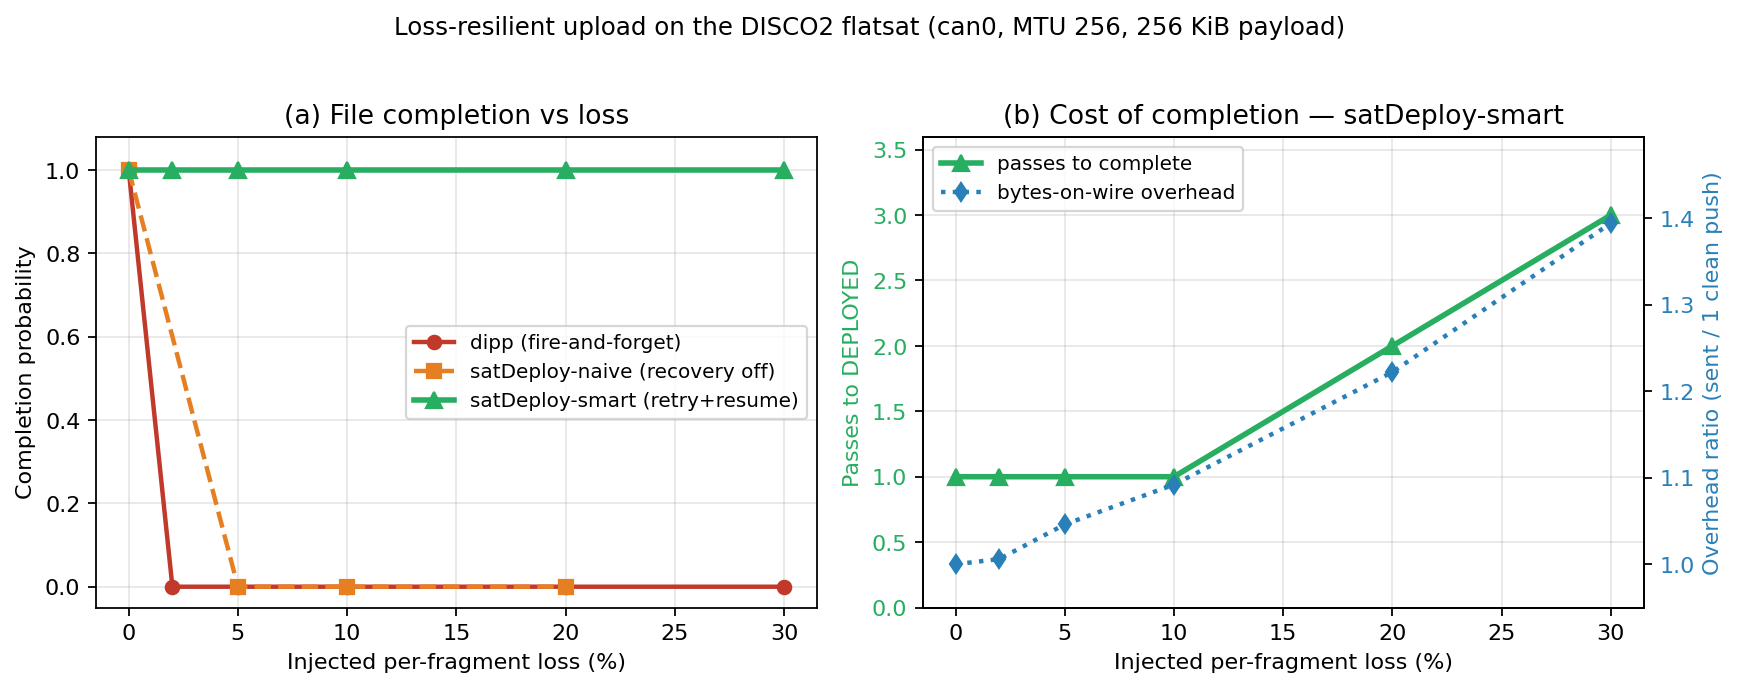
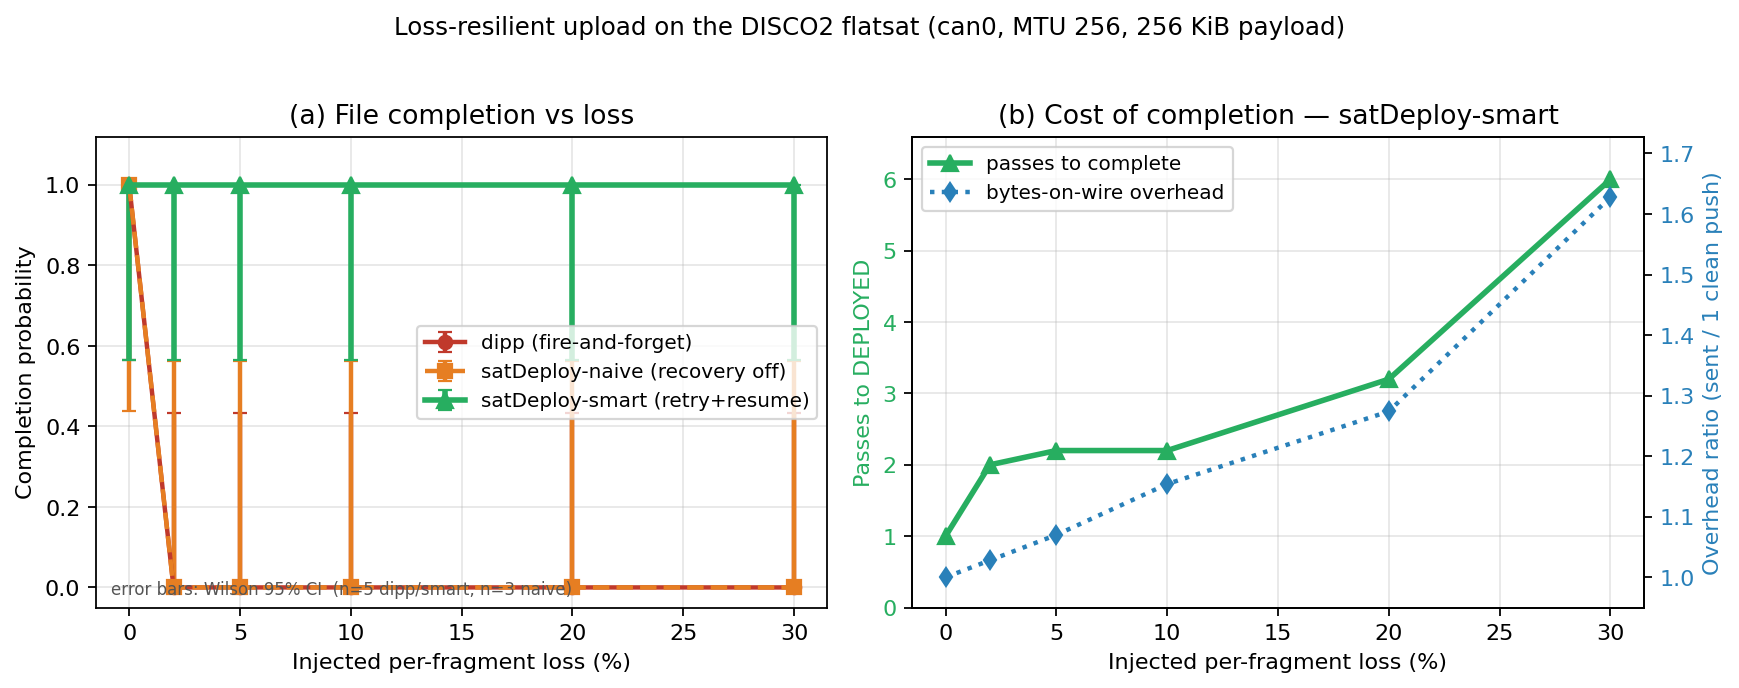
feat(figures): Wilson CIs on the headline plot + calibration figure
plot_headline now reads from captures/ and renders Wilson 95% CIs on the
completion panel (honest k/n with n=5 dipp/smart, n=3 naive). Adds
plot_calibration.py + the calibration figure, and refreshes the headline
figure and satdeploy_sweep.csv from the paced re-run.

diff --git a/scripts/plot_calibration.py b/scripts/plot_calibration.py
@@ -1,0 +1,163 @@
+#!/usr/bin/env python3
+"""Calibration + oracle-agreement figure (RQ1 + RQ5).
+
+Two panels, both built from the live can0 sweep CSVs (no bus needed):
+
+  (a) injected vs measured per-fragment loss, all three arms. Measured loss is
+      the injector drop-log (oracle A): dipp = dropped/sent; satDeploy =
+      total_dropped/total_injected (per-attempt loss summed over passes). The
+      y=x line is perfect calibration; we annotate the worst-case
+      |mean_measured - injected| against the +/-0.02 success-criterion bound.
+
+  (b) oracle agreement (dipp arm): injector kept-count (oracle A) vs
+      promiscuous-monitor observed-count (oracle B), per run, on y=x. Agreement
+      is the differential-testing signal (RQ5); disagreement would flag a bug.
+      Annotates max(dropped&observed), which must be ~0 (a dropped fragment must
+      never be seen on the wire).
+
+Output: figures/calibration.{png,pdf}
+"""
+import csv
+import os
+import statistics
+from collections import defaultdict
+
+import matplotlib
+
+matplotlib.use("Agg")
+import matplotlib.pyplot as plt
+
+HERE = os.path.dirname(os.path.abspath(__file__))
+ROOT = os.path.dirname(HERE)
+CAP = os.path.join(ROOT, "captures")
+FIGDIR = os.path.join(ROOT, "figures")
+
+
+def load_measured_dipp():
+    """injected -> [measured loss per seed], from oracle A (dropped/sent)."""
+    byloss = defaultdict(list)
+    path = os.path.join(CAP, "dipp_sweep.csv")
+    if not os.path.exists(path):
+        return byloss
+    with open(path) as f:
+        for r in csv.DictReader(f):
+            if r["status"] != "ok" or not r["sent"]:
+                continue
+            sent = int(r["sent"])
+            if sent == 0:
+                continue
+            byloss[float(r["loss"])].append(int(r["dropped"]) / sent)
+    return byloss
+
+
+def load_measured_satdeploy():
+    """arm -> injected -> [measured loss], from total_dropped/total_injected."""
+    out = {"smart": defaultdict(list), "naive": defaultdict(list)}
+    path = os.path.join(CAP, "satdeploy_sweep.csv")
+    if not os.path.exists(path):
+        return out
+    with open(path) as f:
+        for r in csv.DictReader(f):
+            if r["status"] != "ok":
+                continue
+            inj = int(r["total_injected"])
+            if inj == 0:
+                continue
+            out[r["arm"]][float(r["loss"])].append(int(r["total_dropped"]) / inj)
+    return out
+
+
+def load_oracle_agreement():
+    """dipp: list of (kept_A, observed_B, drop_obs) per run."""
+    rows = []
+    path = os.path.join(CAP, "dipp_sweep.csv")
+    if not os.path.exists(path):
+        return rows
+    with open(path) as f:
+        for r in csv.DictReader(f):
+            if r["status"] != "ok" or not r.get("observedB"):
+                continue
+            try:
+                rows.append((int(r["kept"]), int(r["observedB"]), int(r["drop_obs"])))
+            except (ValueError, KeyError):
+                continue
+    return rows
+
+
+def meanstd(d):
+    xs = sorted(d)
+    means = [statistics.mean(d[x]) for x in xs]
+    sds = [statistics.pstdev(d[x]) if len(d[x]) > 1 else 0.0 for x in xs]
+    return [x * 100 for x in xs], [m * 100 for m in means], [s * 100 for s in sds]
+
+
+def main():
+    os.makedirs(FIGDIR, exist_ok=True)
+    dipp = load_measured_dipp()
+    sat = load_measured_satdeploy()
+    agree = load_oracle_agreement()
+
+    fig, (ax1, ax2) = plt.subplots(1, 2, figsize=(11, 4.2))
+
+    # Panel (a): injected vs measured loss, all arms, with y=x.
+    lim = 32
+    ax1.plot([0, lim], [0, lim], "k--", lw=1, alpha=0.6, label="y = x (perfect)")
+    worst = 0.0
+    for d, color, marker, lab in (
+        (dipp, "#c0392b", "o", "dipp"),
+        (sat["naive"], "#e67e22", "s", "satDeploy-naive"),
+        (sat["smart"], "#27ae60", "^", "satDeploy-smart"),
+    ):
+        if not d:
+            continue
+        x, m, s = meanstd(d)
+        ax1.errorbar(x, m, yerr=s, fmt=marker + "-", color=color, lw=1.8, ms=6,
+                     capsize=3, label=lab)
+        worst = max(worst, max(abs(mi - xi) for xi, mi in zip(x, m)))
+    ax1.set_xlabel("Injected per-fragment loss (%)")
+    ax1.set_ylabel("Measured loss — oracle A (%)")
+    ax1.set_xlim(-1, lim)
+    ax1.set_ylim(-1, lim)
+    ax1.set_aspect("equal", adjustable="box")
+    ax1.set_title("(a) Injector calibration: injected vs measured")
+    ax1.grid(True, alpha=0.3)
+    ax1.legend(loc="upper left", fontsize=8)
+    ax1.text(0.97, 0.03,
+             f"worst |meas-inj| = {worst:.2f} pp\nbound: <2 pp",
+             transform=ax1.transAxes, ha="right", va="bottom", fontsize=8,
+             bbox=dict(boxstyle="round", fc="white", ec="gray", alpha=0.8))
+
+    # Panel (b): oracle A vs oracle B agreement (dipp).
+    if agree:
+        keptA = [a for a, _, _ in agree]
+        obsB = [b for _, b, _ in agree]
+        maxdrop = max(d for _, _, d in agree)
+        hi = max(max(keptA), max(obsB)) * 1.05
+        ax2.plot([0, hi], [0, hi], "k--", lw=1, alpha=0.6, label="y = x (agree)")
+        ax2.scatter(keptA, obsB, color="#8e44ad", s=40, zorder=3, label="per-run")
+        ax2.set_xlabel("Fragments kept — oracle A (injector log)")
+        ax2.set_ylabel("Fragments observed — oracle B (monitor)")
+        ax2.set_title("(b) Two-oracle agreement (dipp) — RQ5")
+        ax2.grid(True, alpha=0.3)
+        ax2.legend(loc="upper left", fontsize=8)
+        ax2.text(0.97, 0.03,
+                 f"max(dropped & observed) = {maxdrop}\n(a dropped frag must never be seen)",
+                 transform=ax2.transAxes, ha="right", va="bottom", fontsize=8,
+                 bbox=dict(boxstyle="round", fc="white", ec="gray", alpha=0.8))
+    else:
+        ax2.text(0.5, 0.5, "no oracle-B data yet\n(dipp sweep in progress)",
+                 ha="center", va="center", transform=ax2.transAxes)
+        ax2.set_title("(b) Two-oracle agreement (dipp) — RQ5")
+
+    fig.suptitle("Instrument calibration (oracle A) & two-oracle agreement — can0 flatsat",
+                 fontsize=11, y=1.02)
+    fig.tight_layout()
+    for ext in ("png", "pdf"):
+        out = os.path.join(FIGDIR, f"calibration.{ext}")
+        fig.savefig(out, dpi=160, bbox_inches="tight")
+        print("wrote", out)
+    print(f"worst |measured-injected| = {worst:.3f} pp")
+
+
+if __name__ == "__main__":
+    main()

diff --git a/scripts/plot_headline.py b/scripts/plot_headline.py
@@ -5,8 +5,13 @@ Reads the two sweep CSVs produced on the live can0 flatsat and renders the
 3-arm comparison (dipp / satDeploy-naive / satDeploy-smart) plus the cost of
 completion for the smart arm. Pure on-disk data; no live bus needed.
 
-  scripts/dipp_sweep.csv      -> Arm A (fire-and-forget baseline)
-  scripts/satdeploy_sweep.csv -> Arm B (smart) + Arm C (naive)
+  captures/dipp_sweep.csv      -> Arm A (fire-and-forget baseline)
+  captures/satdeploy_sweep.csv -> Arm B (smart) + Arm C (naive)
+
+Completion is a proportion (k of n seeds), so panel (a) shows Wilson 95%
+confidence intervals as error bars; with small n the intervals are wide, which
+is the honest way to present k/n (and visibly reflects the per-arm n: dipp and
+smart n=5, naive n=3).
 
 Output: figures/completion_vs_loss.{png,pdf}
 """
@@ -25,21 +30,33 @@ CAP = os.path.join(ROOT, "captures")
 FIGDIR = os.path.join(ROOT, "figures")
 
 
+def wilson(k, n, z=1.96):
+    """Wilson score 95% CI for a binomial proportion. Returns (p, lo, hi)."""
+    if n == 0:
+        return 0.0, 0.0, 0.0
+    p = k / n
+    denom = 1.0 + z * z / n
+    center = (p + z * z / (2 * n)) / denom
+    half = (z * ((p * (1 - p) / n + z * z / (4 * n * n)) ** 0.5)) / denom
+    return p, max(0.0, center - half), min(1.0, center + half)
+
+
 def load_dipp():
-    """dipp completion = fraction of seeds delivering every fragment (kept==sent)."""
-    byloss = defaultdict(list)
+    """dipp completion per loss = [k complete, n seeds]; complete = kept==sent."""
+    byloss = defaultdict(lambda: [0, 0])
     with open(os.path.join(CAP, "dipp_sweep.csv")) as f:
         for r in csv.DictReader(f):
             if r["status"] != "ok":
                 continue
-            complete = int(r["kept"]) == int(r["sent"])
-            byloss[float(r["loss"])].append(1.0 if complete else 0.0)
-    return {l: sum(v) / len(v) for l, v in byloss.items()}
+            byloss[float(r["loss"])][1] += 1
+            if int(r["kept"]) == int(r["sent"]):
+                byloss[float(r["loss"])][0] += 1
+    return byloss
 
 
 def load_satdeploy():
-    """smart/naive completion = fraction DEPLOYED; also smart passes + overhead."""
-    comp = {"smart": defaultdict(list), "naive": defaultdict(list)}
+    """smart/naive completion per loss = [k DEPLOYED, n]; also smart passes + overhead."""
+    comp = {"smart": defaultdict(lambda: [0, 0]), "naive": defaultdict(lambda: [0, 0])}
     passes = defaultdict(list)
     overhead = defaultdict(list)
     with open(os.path.join(CAP, "satdeploy_sweep.csv")) as f:
@@ -47,19 +64,26 @@ def load_satdeploy():
             if r["status"] != "ok":
                 continue
             arm, loss = r["arm"], float(r["loss"])
-            comp[arm][loss].append(1.0 if r["result"] == "DEPLOYED" else 0.0)
+            comp[arm][loss][1] += 1
+            if r["result"] == "DEPLOYED":
+                comp[arm][loss][0] += 1
             if arm == "smart":
                 passes[loss].append(int(r["passes"]))
                 overhead[loss].append(float(r["overhead_ratio"]))
-    frac = {a: {l: sum(v) / len(v) for l, v in d.items()} for a, d in comp.items()}
     pass_avg = {l: sum(v) / len(v) for l, v in passes.items()}
     ovh_avg = {l: sum(v) / len(v) for l, v in overhead.items()}
-    return frac, pass_avg, ovh_avg
+    return comp, pass_avg, ovh_avg
 
 
-def series(d):
-    xs = sorted(d)
-    return [x * 100 for x in xs], [d[x] for x in xs]
+def ci_series(byloss):
+    """dict loss->[k,n]  ->  (xs%, ps, yerr_lo, yerr_hi) for ax.errorbar."""
+    xs = sorted(byloss)
+    ps, lo, hi = [], [], []
+    for x in xs:
+        k, n = byloss[x]
+        p, l, h = wilson(k, n)
+        ps.append(p); lo.append(p - l); hi.append(h - p)
+    return [x * 100 for x in xs], ps, [lo, hi]
 
 
 def main():
@@ -69,19 +93,24 @@ def main():
 
     fig, (ax1, ax2) = plt.subplots(1, 2, figsize=(11, 4.2))
 
-    # Panel (a): completion probability vs loss
-    x, y = series(dipp)
-    ax1.plot(x, y, "o-", color="#c0392b", label="dipp (fire-and-forget)", lw=2, ms=6)
-    x, y = series(sat["naive"])
-    ax1.plot(x, y, "s--", color="#e67e22", label="satDeploy-naive (recovery off)", lw=2, ms=6)
-    x, y = series(sat["smart"])
-    ax1.plot(x, y, "^-", color="#27ae60", label="satDeploy-smart (retry+resume)", lw=2.5, ms=7)
+    # Panel (a): completion probability vs loss, with Wilson 95% CIs
+    x, y, e = ci_series(dipp)
+    ax1.errorbar(x, y, yerr=e, fmt="o-", color="#c0392b", lw=2, ms=6, capsize=3,
+                 label="dipp (fire-and-forget)")
+    x, y, e = ci_series(sat["naive"])
+    ax1.errorbar(x, y, yerr=e, fmt="s--", color="#e67e22", lw=2, ms=6, capsize=3,
+                 label="satDeploy-naive (recovery off)")
+    x, y, e = ci_series(sat["smart"])
+    ax1.errorbar(x, y, yerr=e, fmt="^-", color="#27ae60", lw=2.5, ms=7, capsize=3,
+                 label="satDeploy-smart (retry+resume)")
     ax1.set_xlabel("Injected per-fragment loss (%)")
     ax1.set_ylabel("Completion probability")
-    ax1.set_ylim(-0.05, 1.08)
+    ax1.set_ylim(-0.05, 1.12)
     ax1.set_title("(a) File completion vs loss")
     ax1.grid(True, alpha=0.3)
     ax1.legend(loc="center right", fontsize=9)
+    ax1.text(0.02, 0.02, "error bars: Wilson 95% CI  (n=5 dipp/smart, n=3 naive)",
+             transform=ax1.transAxes, fontsize=7.5, color="#555", va="bottom")
 
     # Panel (b): the cost of completion (smart only)
     xs = sorted(passes)